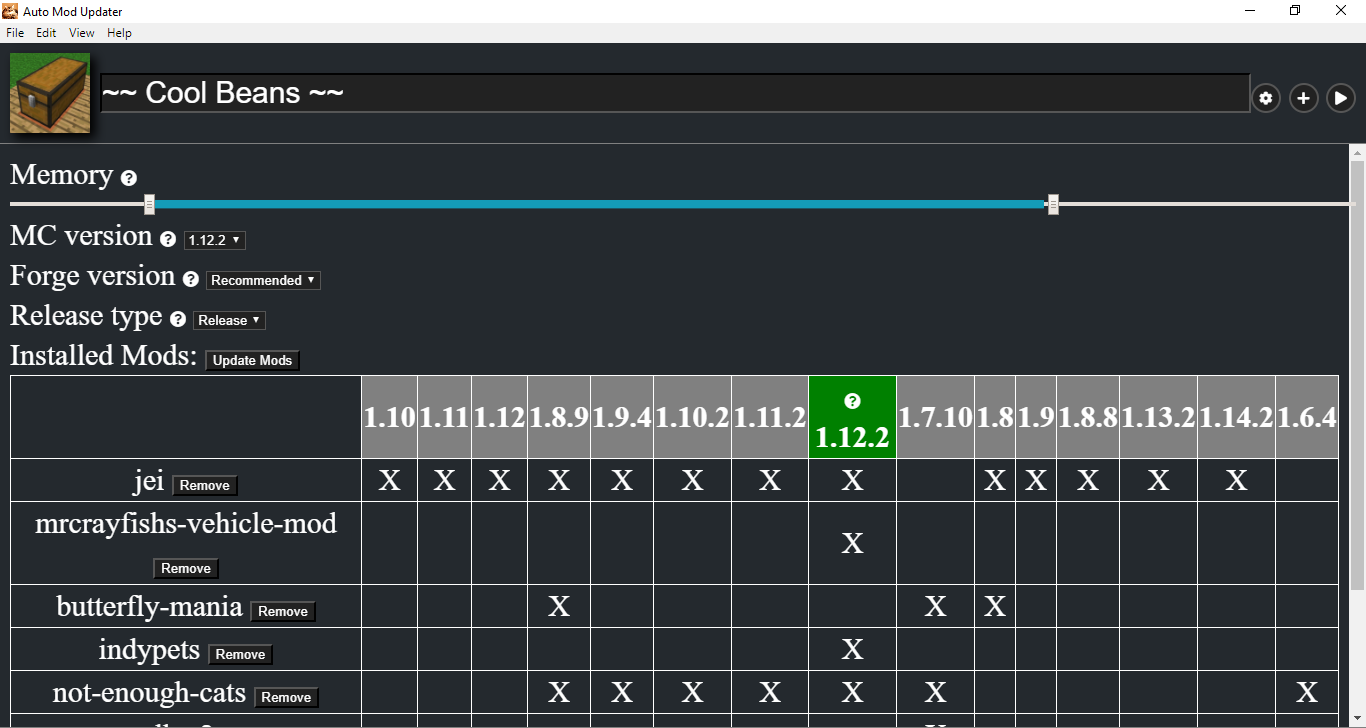
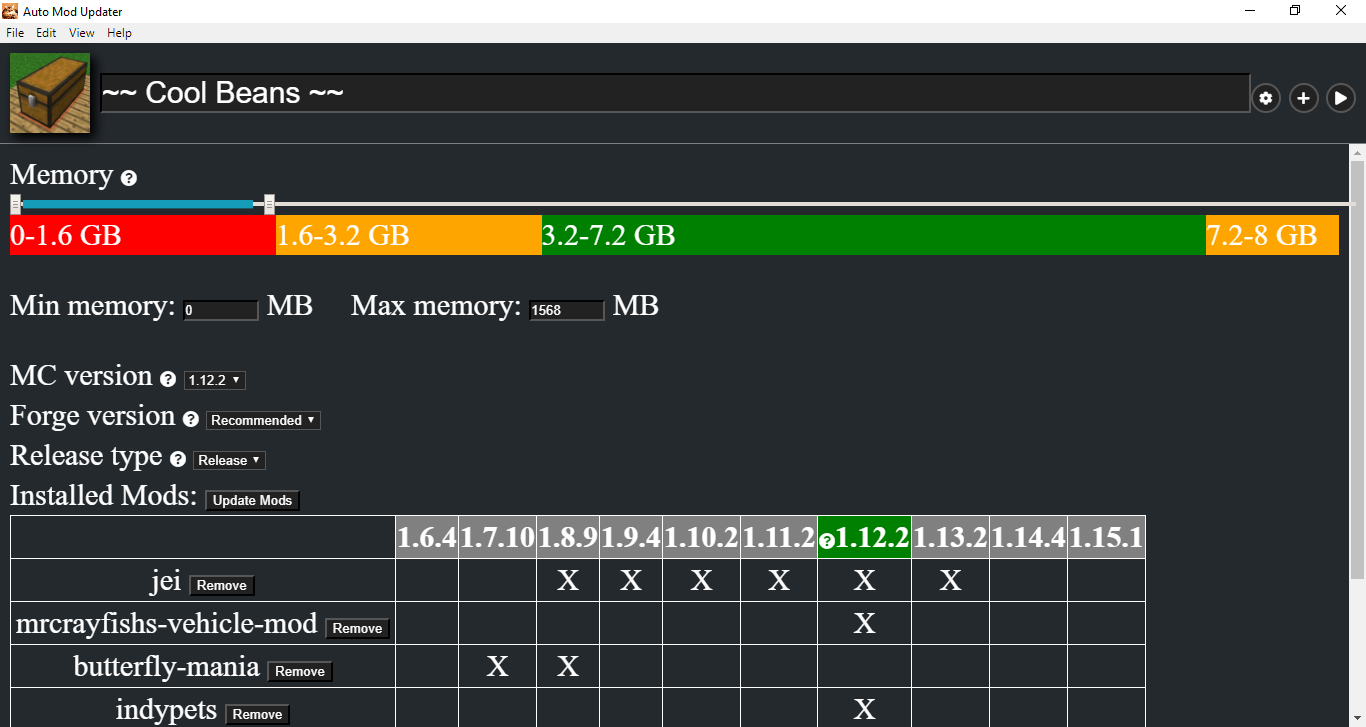
Fix Issue #5

diff --git a/menus/add-mods.js b/menus/add-mods.js
@@ -101,7 +101,30 @@ function calcAllVersions(startValues) {
       allVersions.push(MCversion);
     }
   }}
+  return removeDuplicateVersions(allVersions.sort((a, b) => {
+    // Sort allVersions and deal with special cases like "-Snapshot"
+    if (!compareVersions.validate(a))
+      a = a.replace(/-\w+/, ".0$&");
+    if (!compareVersions.validate(b))
+      b = b.replace(/-\w+/, ".0$&");
+    return compareVersions(a, b);
+  }) );
+}
+
+function removeDuplicateVersions(allVersions) {
+  //allVersions = editProjectsFile().allVersions;
+  var versionsToDelete = [];
+  for (var i=allVersions.length-1; i>0; i--) {
+    if (getBaseVersion(allVersions[i]) == getBaseVersion(allVersions[i-1]) ) {
+      versionsToDelete.push( ...allVersions.splice(i-1, 1) );
+    }
+  }
+  console.log(allVersions, versionsToDelete);
   return allVersions;
+
+  function getBaseVersion(ver) {
+    return ver.split('.').slice(0, 2).join('.')
+  }
 }
 
 async function scanMod(self) {
@@ -110,7 +133,12 @@ async function scanMod(self) {
     self.innerText = 'Remove';
     var data = await newSearchRaw('https://api.cfwidget.com/minecraft/mc-mods/' + searchCard.data.urlName, self)
     console.log(data);
-    let versions = Object.keys(data.versions);
+    //let versions = Object.keys(data.versions);
+    var versions = [];
+    for (let version of Object.values(data.versions)) {
+      // remove non-versions like "Forge" and ensure all versions reported
+      versions.push(negativeArrayIndex( version[0].versions.filter(e => {return compareVersions.validate(e) || e.includes('Snapshot')}) ));
+    }
     let dependencies = await findDependencies(searchCard.data.urlName);
     editProjectsFile(function(file) {
       file.allVersions = calcAllVersions(versions);

diff --git a/index.html b/index.html
@@ -12,6 +12,7 @@ const prompt = require('electron-prompt');
 const {dialog} = require('electron').remote;
 const fs = require('fs');
 const child_process = require('child_process');
+const compareVersions = require("compare-versions");
 const pathlib = require('path');
 const urllib = require('url');
 const app = electron.remote.app;

diff --git a/index.js b/index.js
@@ -159,4 +159,5 @@ function isEmpty(str) {
 
 function makeSafe(str) {
   return str.replace(/[^\w\d\s]/gi, '').trim();
+  // Mathches everything except letters (\w), numbers (\d), or whitespace (\s)
 }
